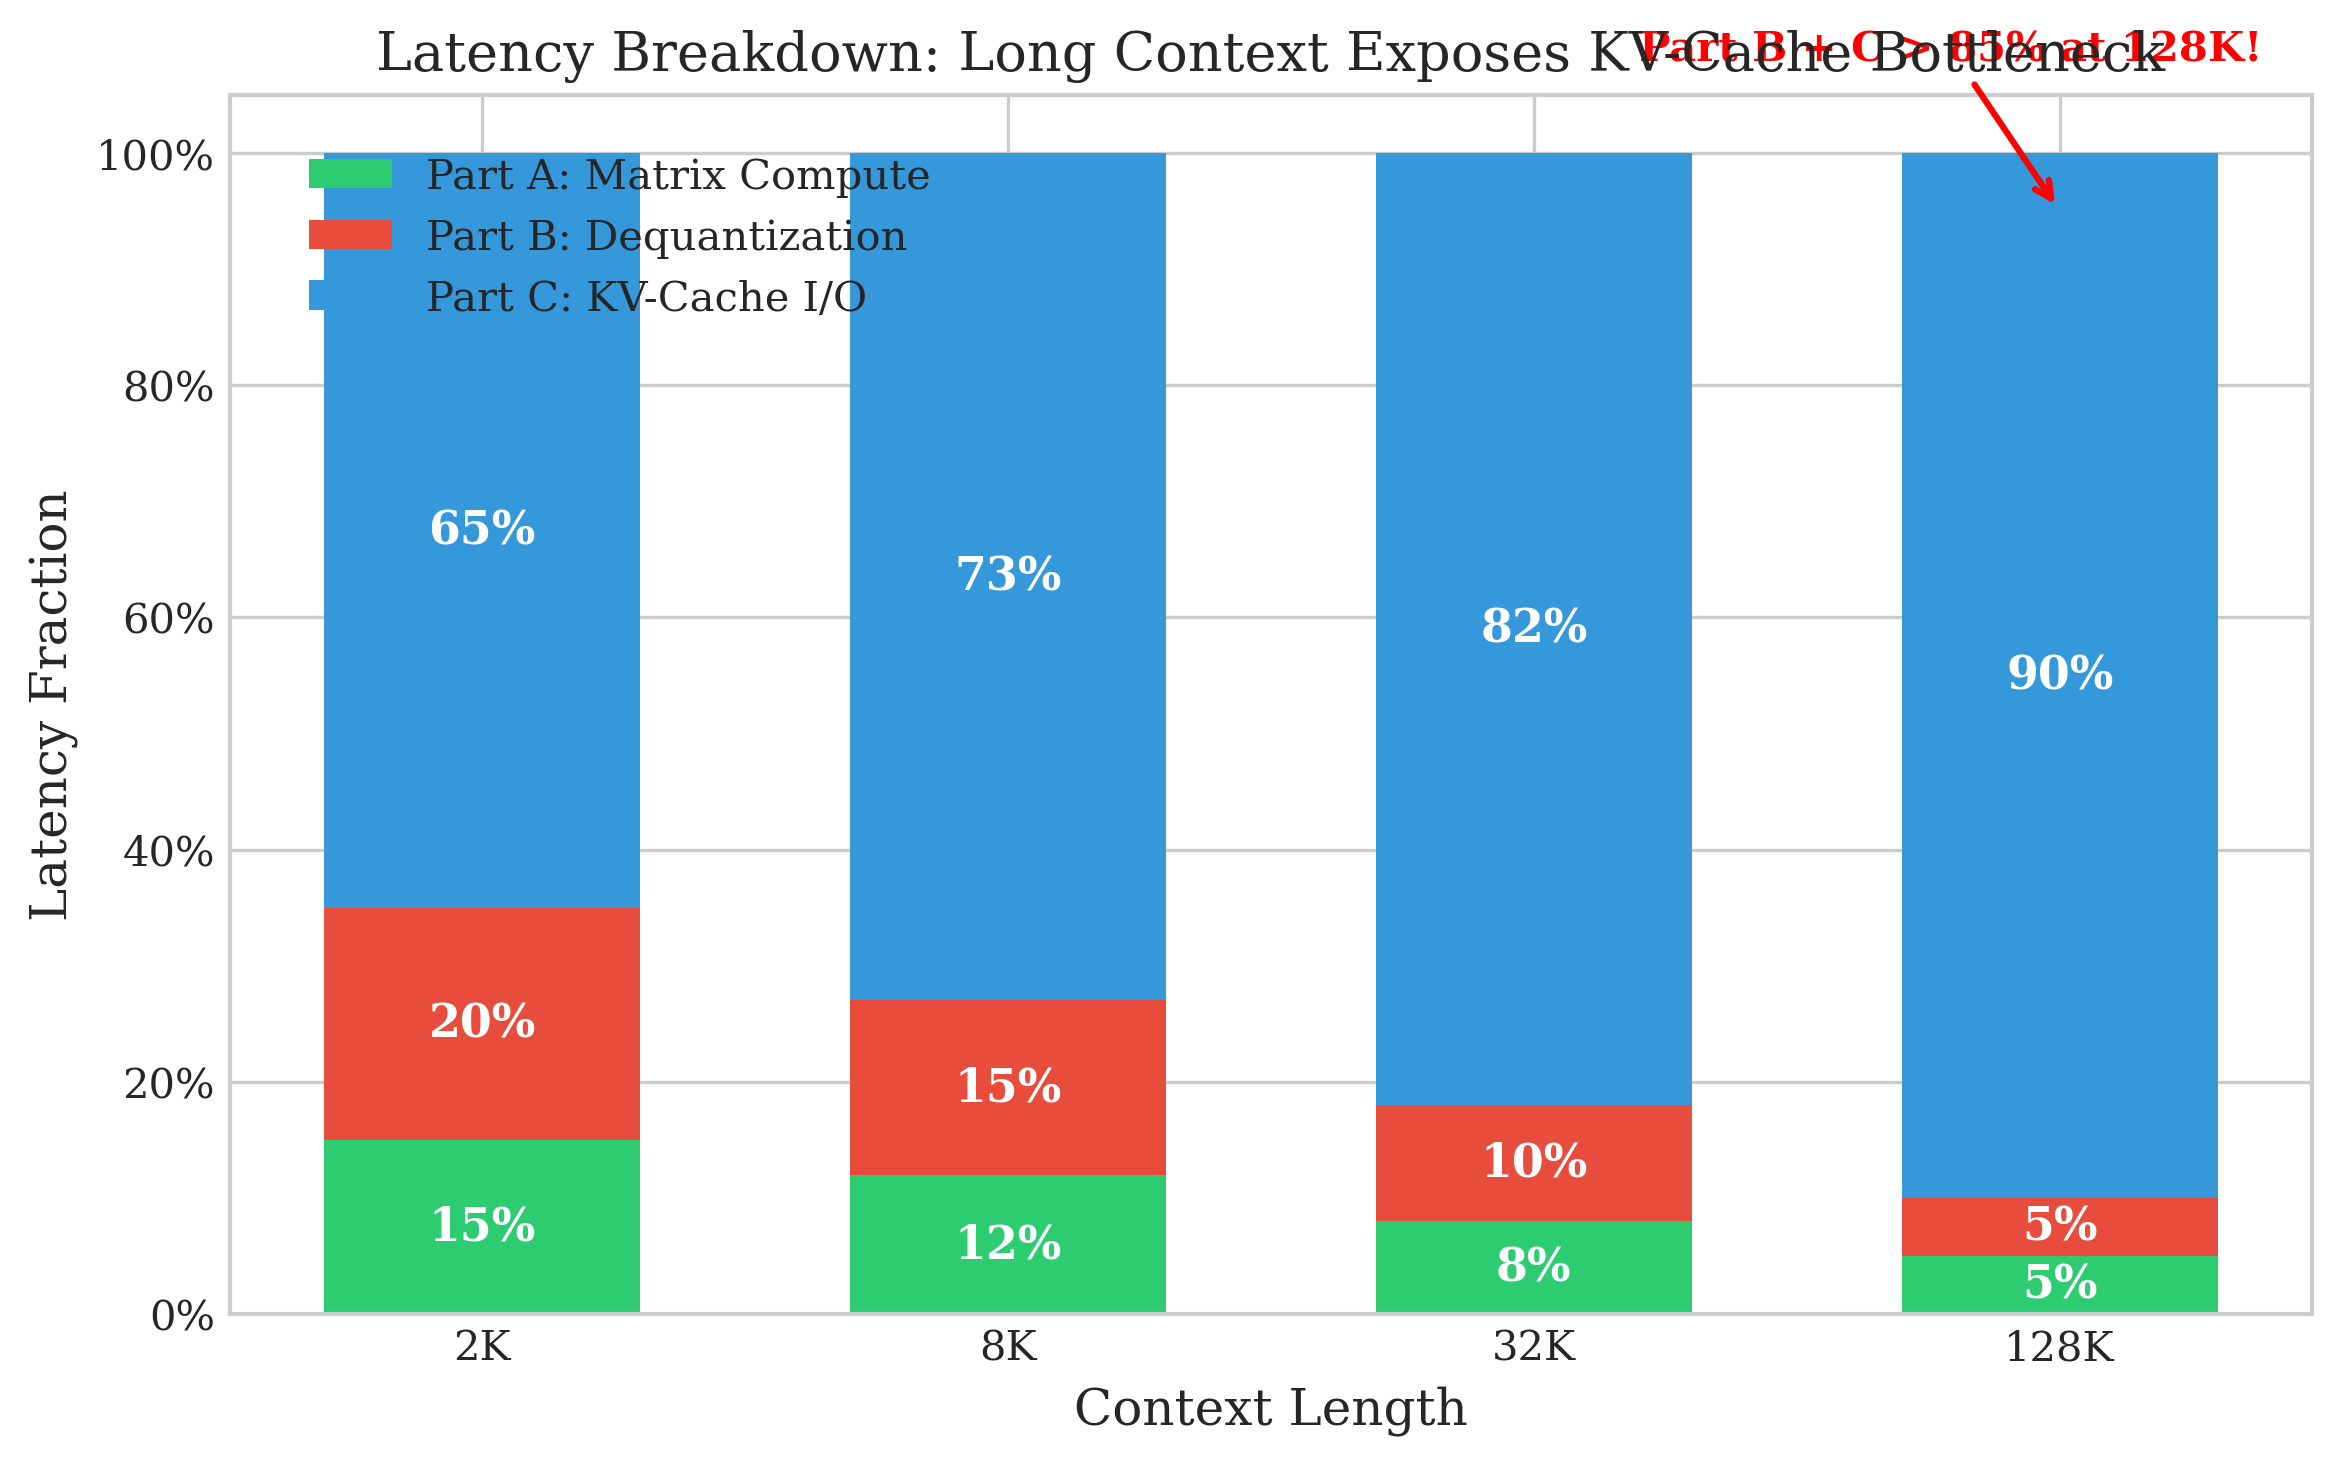
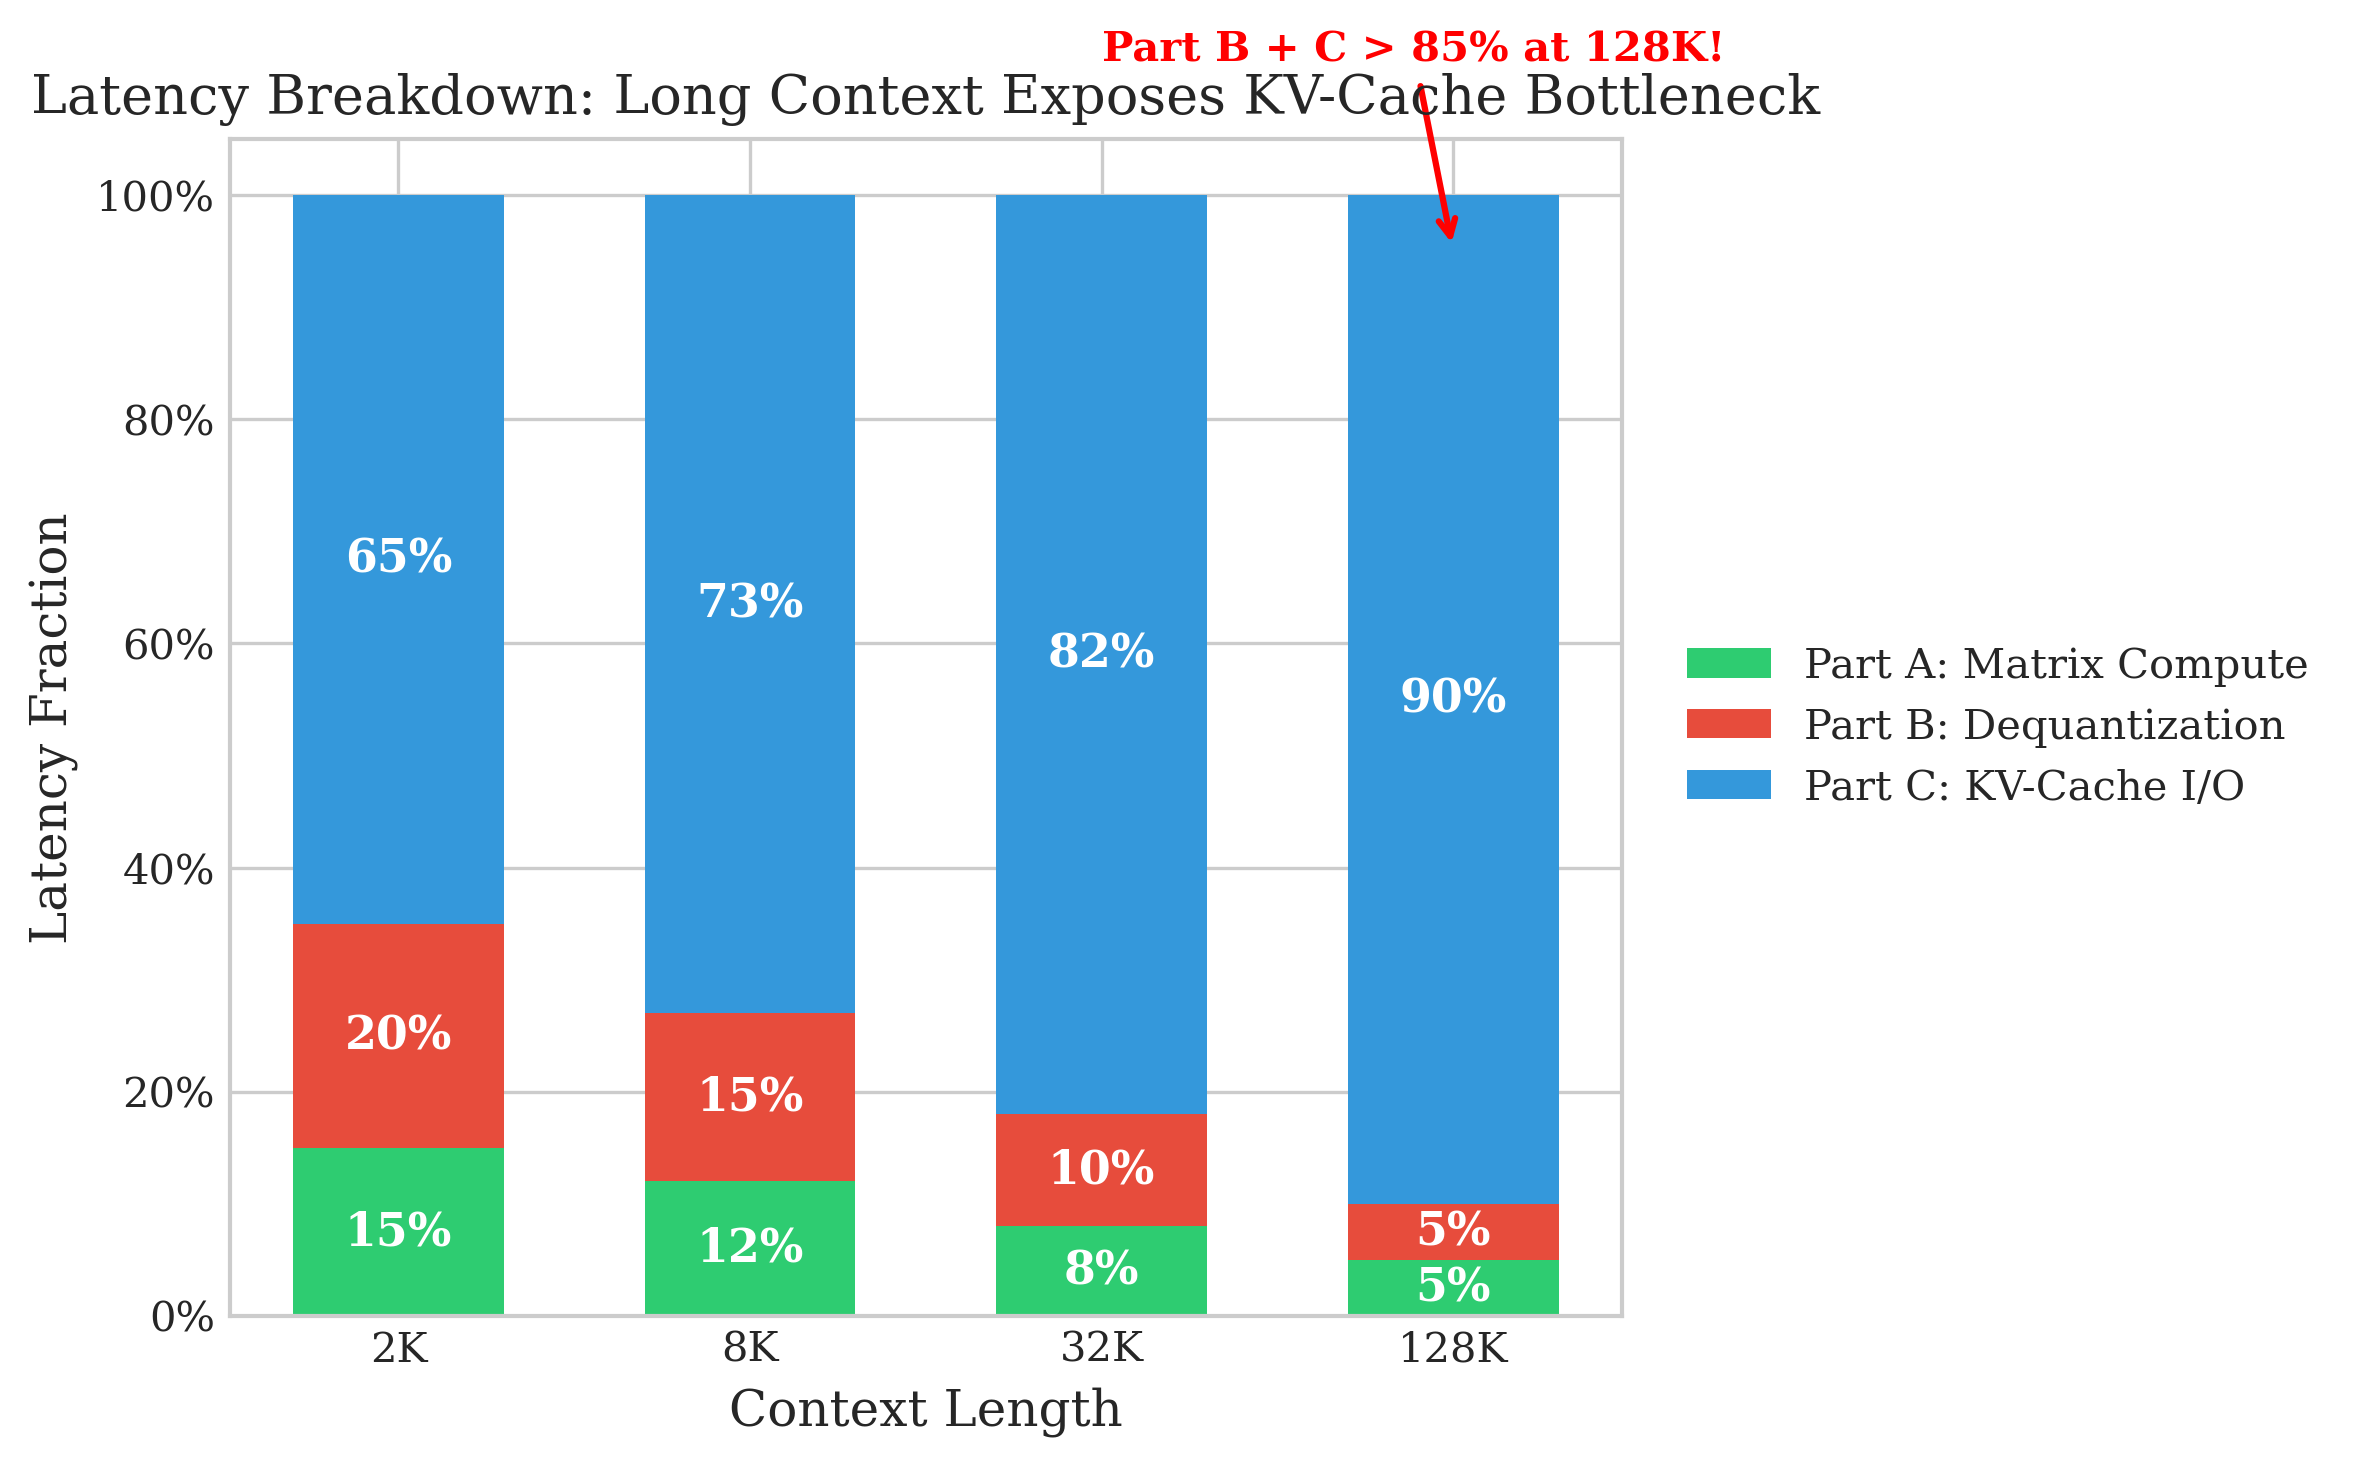
c2

diff --git a/scripts/generate_paper_figures.py b/scripts/generate_paper_figures.py
@@ -91,12 +91,14 @@ def fig1_latency_breakdown():
     ax.set_xticklabels(contexts)
     ax.set_ylim(0, 1.05)
     ax.yaxis.set_major_formatter(FuncFormatter(lambda y, _: f'{y*100:.0f}%'))
-    ax.legend(loc='upper left', bbox_to_anchor=(0.02, 0.98))
+    # Move legend entirely outside the plot to the right
+    ax.legend(loc='center left', bbox_to_anchor=(1.02, 0.5))
     
     # Add annotation
     ax.annotate('Part B + C > 85% at 128K!', 
-                xy=(3, 0.95), xytext=(2.2, 1.08),
+                xy=(3, 0.95), xytext=(2.0, 1.12),
                 fontsize=10, color='red', fontweight='bold',
+                annotation_clip=False,
                 arrowprops=dict(arrowstyle='->', color='red', lw=1.5))
     
     plt.tight_layout()
